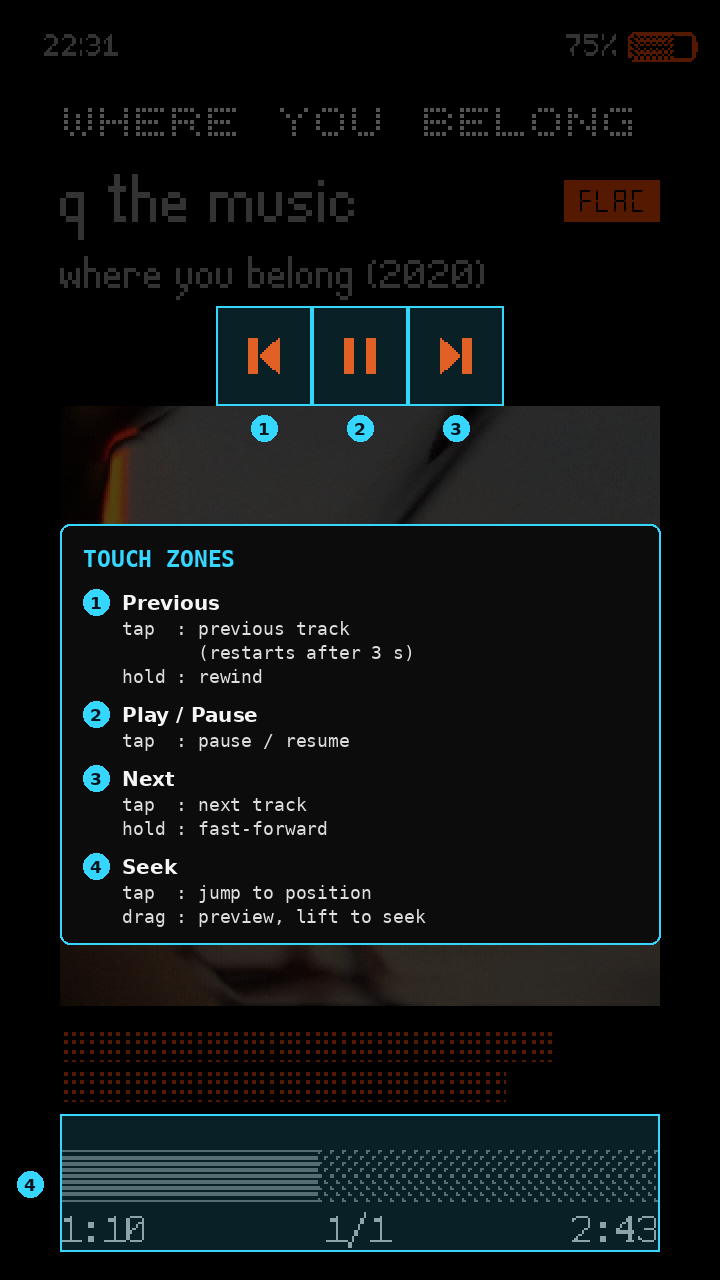
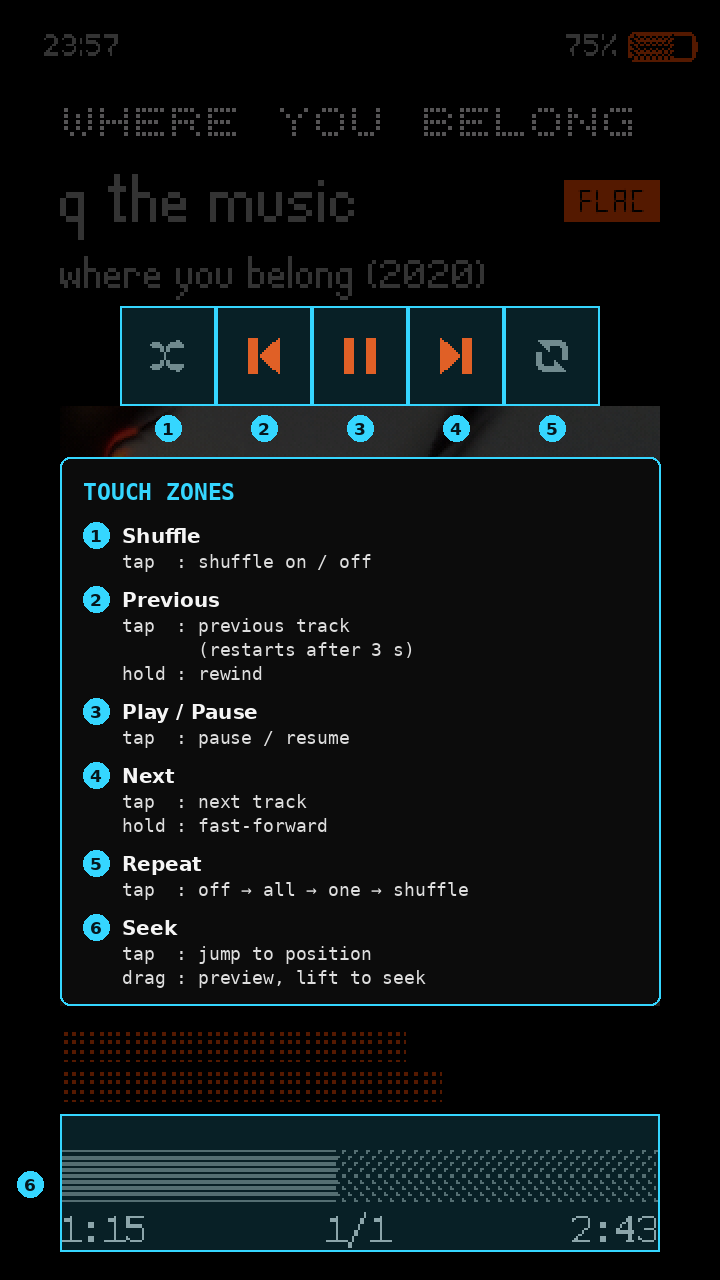
README and previews: shuffle / repeat buttons, new USB screen
- Now playing and touch-zones previews re-captured in the simulator with
  the five-button transport row; the touch-zones legend now lists
  shuffle and repeat (six zones).
- USB screen preview without "USB CONNECTED", with the dot-matrix clock.
- README: touch controls table and feature list updated.

diff --git a/README.md b/README.md
@@ -16,11 +16,11 @@
 - **Vacuum-tube orange accents** (`#FF4D00`) on pure black — battery icon, playback buttons, peak meter, codec tag, the selected item in every list and the menu's header and footer rules.
 - **Dot-matrix track info** — the title in *SquareDotCombined* (also covers Japanese, Chinese and Korean), the artist and album in *LanaPixel*, and a solid orange codec tag (`MP3`, `FLAC`, …) in *Digital-7 Mono* at the end of the artist line
 - **Tactile progress bar** — tap it to jump, or drag along it and lift to seek, with a finger-sized touch zone around the bar
-- **Touch transport** — small previous · play/pause · next buttons (16×18 px glyphs, 48 px apart) centred under the track info
+- **Touch transport** — small shuffle · previous · play/pause · next · repeat buttons (16–18 px glyphs, 48 px apart) centred under the track info; shuffle and repeat are grey when off and turn orange when on
 - **Custom header** — clock on the left, battery percentage + 11-frame battery icon on the right, all drawn by the skin (status bar disabled)
 - **Lock screen** — big clock, now-playing info, time remaining, plus charging / low-battery states
-- **USB screen** — while connected to a computer: a big clock, the date, the battery level (big percentage + a dot-matrix gauge in the peak meter's style), charging status (Charging / Charged / Not charging) and battery voltage, with the eject reminder in the footer
-- **Playback indicators** — shuffle, repeat and seek icons in the play screen
+- **USB screen** — while connected to a computer: the time in the menu header's dot-matrix font (SquareDotCombined), the date, the battery level (big percentage + a dot-matrix gauge in the peak meter's style), charging status (Charging / Charged / Not charging) and battery voltage, with the eject reminder in the footer
+- **Playback indicators** — the shuffle / repeat buttons show the current mode (repeat one and repeat shuffle have their own icons), and the play button turns into ◀◀ / ▶▶ while seeking
 - **1-bit monochrome iconset** for the file browser and viewers (`modone.bmp` / `modone_viewer.bmp`)
 - **LanaPixel main font** for the menus, file browser, settings and the now-playing footer (covers Japanese, Chinese and Korean), with the original ProFontIIx + Monogram fonts for the clock, battery percentage and labels, plus the three track-info fonts on the now-playing screen. The "Rockbox" title in the menu header uses the track title's dot-matrix font (SquareDotCombined)
 - **Touch-friendly lists** — row pitch tuned to the panel (LanaPixel 42 px + list padding 37 = 79 px), exactly six rows between the header and the now playing footer, with a margin above and below them so rows scrolled by touch stop short of the orange rules
@@ -46,20 +46,23 @@
 
 ## Touch controls
 
-The first four areas are on the now playing screen; the last one is in the footer of the menus and file browser.
+The first six areas are on the now playing screen; the last one is in the footer of the menus and file browser.
 
 | Area | Tap | Hold / drag |
 |---|---|---|
+| 🔀 Shuffle | Shuffle on / off (orange while on) | — |
 | ⏮ Previous | Previous track (restarts the current one after 3 s) | Rewind |
 | ⏸ / ▶ Play/Pause | Pause / resume (resumes the last playlist when stopped) | — |
 | ⏭ Next | Next track | Fast-forward |
+| 🔁 Repeat | Next repeat mode: off → all → one → shuffle (orange while on) | — |
 | Progress bar | Jump to that position | Drag to preview, lift to seek |
 | ▶ / ⏸ icon in the now playing footer (menus) | Pause / resume (resumes the last playlist when stopped) | — |
 
 - The icons stay small, but each button has a larger invisible 48×50 px tap target (46×50 for the footer icon in the menus). The seek zone spans exactly the bar's width, so where you touch maps 1:1 to the track position. It reaches from the gap above the bar down through the time row (~7 mm tall), so you don't have to hit the 26 px bar itself.
 - The centre icon shows ⏸ while playing and ▶ when paused or stopped. While seeking it shows the theme's ◀◀ / ▶▶ arrows.
-- Previous/next go through the same path as the hardware buttons, so skip length, A-B repeat, cuesheets and Party Mode are respected.
-- Touch targets are disabled on the lock screen and while the volume bar is shown; the footer icon ignores taps while the keys are locked. Shuffle/repeat moved to the right end of the button row and are display only.
+- Previous/next go through the same path as the hardware buttons, so skip length, cuesheets and Party Mode are respected.
+- Touch targets are disabled on the lock screen and while the volume bar is shown; the footer icon ignores taps while the keys are locked.
+- Shuffle and repeat change the same settings as **Settings → Playback Settings**. A-B repeat is not part of the cycle because the AP80 build of Rockbox has no A-B repeat.
 - Requires **Settings → General Settings → Display → Touchscreen Settings → Touchscreen Mode: Point**, which is the default on this player. The theme does not change this setting.
 - Checked with `checkwps` for the `hidizsap80max` target and tested with touch input in the AP80 Pro Max simulator (Rockbox `8f38274e`). It still needs testing on a physical device.
 
